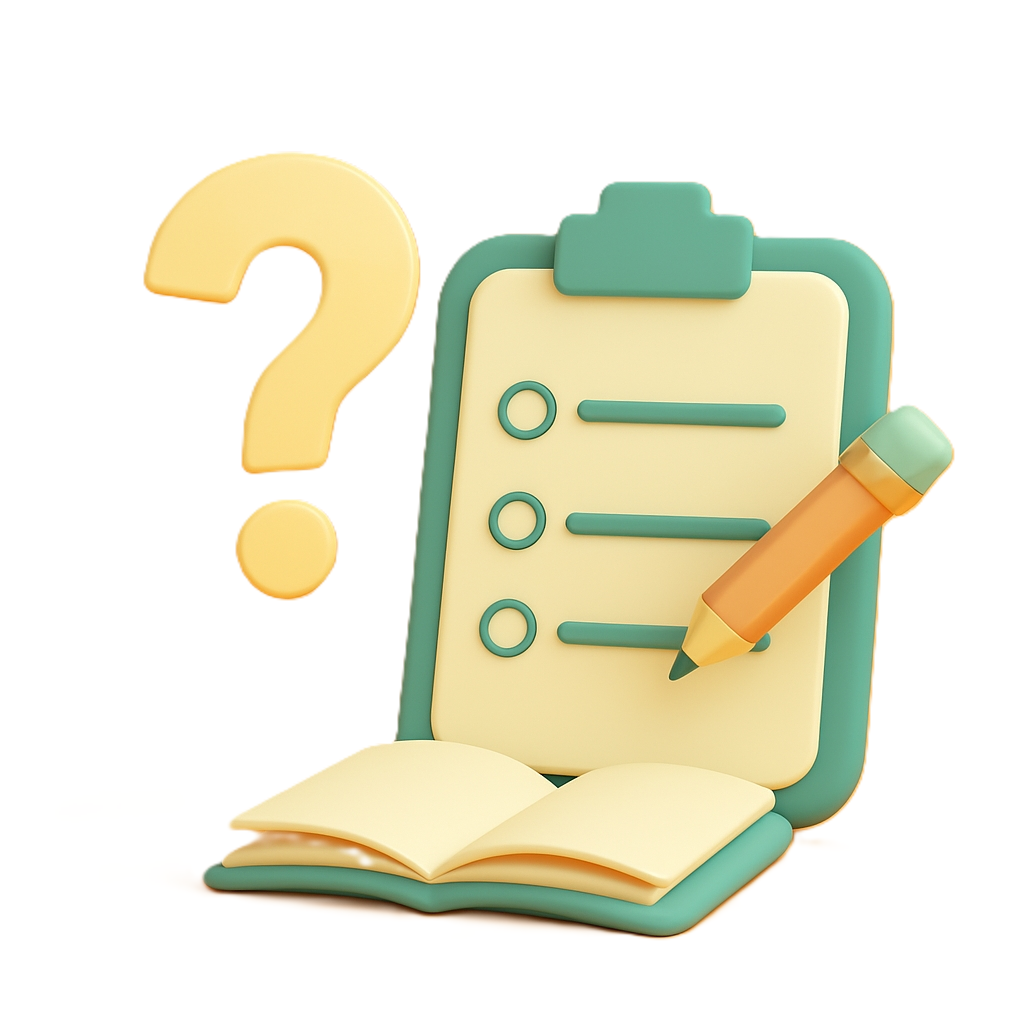
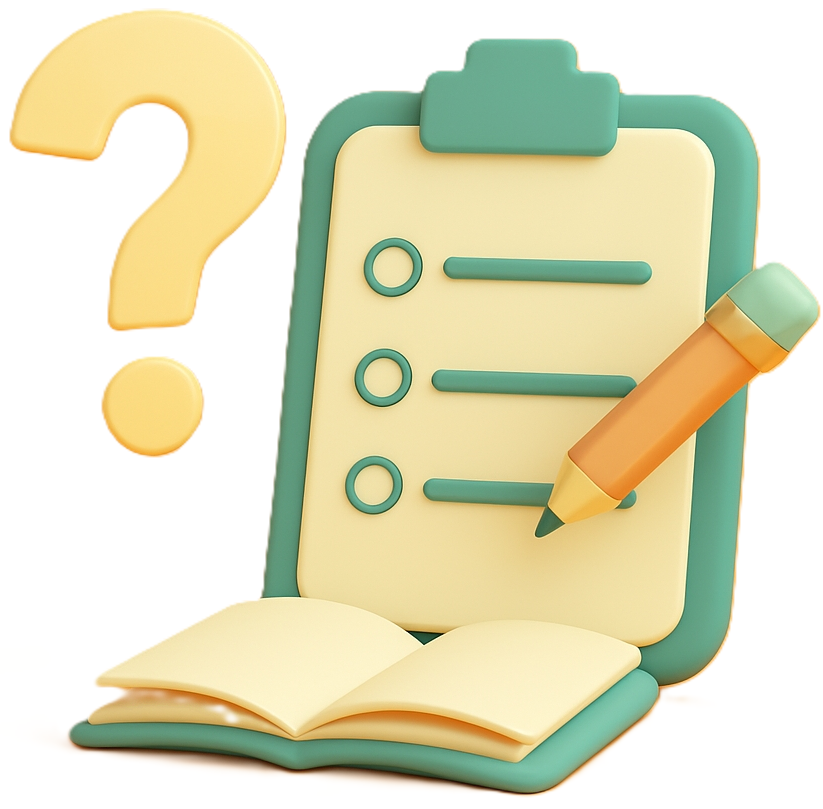
Stage testing - 26-09-2026 07:30

diff --git a/quiz_creator/lib/screens/create_quiz.dart b/quiz_creator/lib/screens/create_quiz.dart
@@ -170,7 +170,10 @@ class _CreateQuizScreenState extends State<CreateQuizScreen> {
                               duration: _durationCtrl.text,
                               questions: _questions,
                             ),
-                            icon: const Icon(Icons.picture_as_pdf),
+                            icon: Icon(
+                              Icons.picture_as_pdf,
+                              color: Theme.of(context).colorScheme.primary,
+                            ),
                             label: const Text("Export PDF"),
                           ),
                           const SizedBox(width: 12),
@@ -200,7 +203,10 @@ class _CreateQuizScreenState extends State<CreateQuizScreen> {
                                 duration: _durationCtrl.text,
                                 questions: _questions,
                               ),
-                              icon: const Icon(Icons.picture_as_pdf),
+                              icon: Icon(
+                                Icons.picture_as_pdf,
+                                color: Theme.of(context).colorScheme.primary,
+                              ),
                               // label: const Text("Export PDF"),
                             ),
                           ),
@@ -311,7 +317,7 @@ class _CreateQuizScreenState extends State<CreateQuizScreen> {
             Row(
               mainAxisAlignment: MainAxisAlignment.spaceBetween,
               children: [
-                const Text(
+                Text(
                   "2. Questions",
                   style: TextStyle(fontWeight: FontWeight.bold, fontSize: 16),
                 ),
@@ -333,10 +339,11 @@ class _CreateQuizScreenState extends State<CreateQuizScreen> {
                   border: Border.all(color: Colors.grey.shade300),
                   borderRadius: BorderRadius.circular(12),
                 ),
-                child: const Center(
+                child: Center(
                   child: Padding(
-                    padding: EdgeInsets.all(10.0),
+                    padding: EdgeInsets.all(24.0),
                     child: Column(
+                      mainAxisAlignment: MainAxisAlignment.center,
                       children: [
                         Image(
                           image: AssetImage(
@@ -348,6 +355,7 @@ class _CreateQuizScreenState extends State<CreateQuizScreen> {
                         SizedBox(height: 10),
                         Text(
                           "No questions added yet. Click 'Add Question' to begin.",
+                          style: Theme.of(context).textTheme.bodyLarge,
                           textAlign: TextAlign.center,
                           softWrap: true,
                         ),
